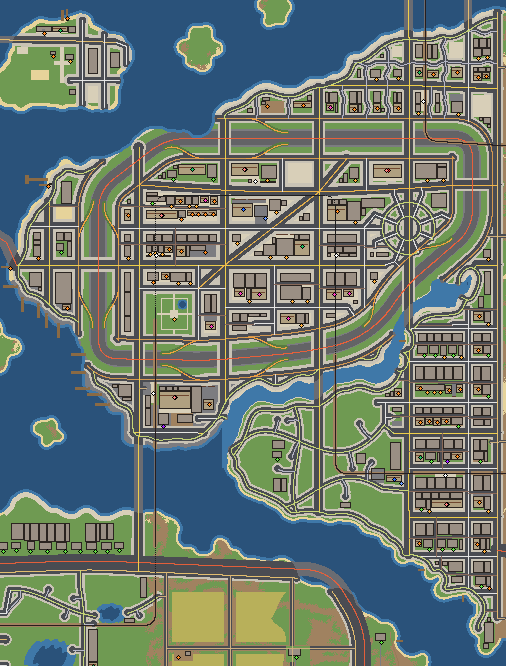
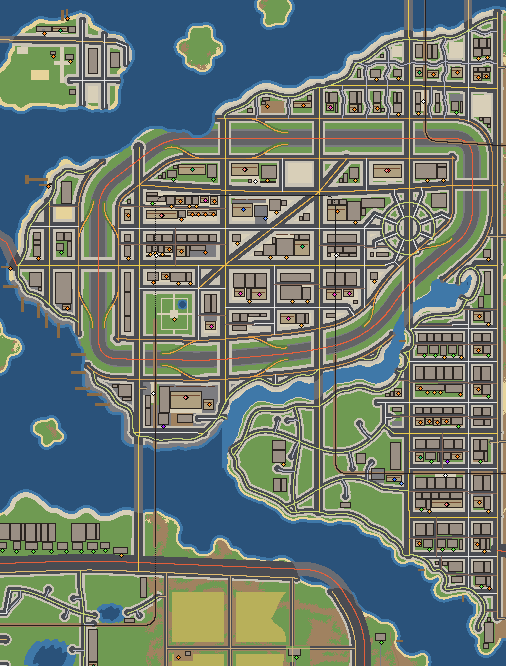
World v2 core: the Westside Clinic and Portside Logistics stay in Metro City
Specials may name a second-home district (alt) tried before the rest of
the world: the clinic goes to Midtown as in the original world, the
courier warehouse to The Yards or Southside (it had landed on Cedar Isle).

Claude-Session: https://claude.ai/code/session_015TdwbASoLBxZr1VoEZGToX

diff --git a/shared/map.js b/shared/map.js
@@ -161,12 +161,13 @@ const STYLE = {
   park: { minW: 14, minH: 14, gen: { rest2: 1 }, filler: 'park', roof: 0, roofKinds: ['tile'] },
 };
 
-// Every business the game systems rely on, placed in a specific district.
+// Every business the game systems rely on, placed in a specific district (alt: where it goes when its
+// own district has no lot big enough - Sunset Beach's strip and the harbor's quays are narrow).
 // strip prefabs host one business per storefront door.
 const SPECIALS = [
   { d: 5, prefab: 'hospital', biz: ['hospital'], names: ['St. Neon General'] },
   { d: 0, prefab: 'hospital', biz: ['hospital'], names: ['Southbank Medical'] },
-  { d: 10, prefab: 'hospital', biz: ['hospital'], names: ['Westside Clinic'] },
+  { d: 10, alt: [1], prefab: 'hospital', biz: ['hospital'], names: ['Westside Clinic'] },
   { d: 18, prefab: 'hospital', biz: ['hospital'], names: ['Old Town Infirmary'] },
   { d: 4, prefab: 'police', biz: ['police'], names: ['Metro City PD - HQ'] },
   { d: 0, prefab: 'police', biz: ['police'], names: ['Southbank Precinct'] },
@@ -182,7 +183,7 @@ const SPECIALS = [
   { d: 6, prefab: 'strip', biz: ['pawn', 'delivery', 'delivery', 'delivery'], names: ['Second Chance Pawn', 'Lucky Laundromat', 'Cut & Fade', 'Quick Mart 24/7'] },
   { d: 3, prefab: 'club', biz: ['fence'], names: ['Back-Alley Exchange'] },
   { d: 3, prefab: 'construction', biz: ['construction'], names: ['Construction Site'] },
-  { d: 8, prefab: 'warehouse', biz: ['warehouse'], names: ['Portside Logistics'] },
+  { d: 8, alt: [3, 6], prefab: 'warehouse', biz: ['warehouse'], names: ['Portside Logistics'] },
   { d: 8, prefab: 'rest1', biz: ['fishmarket'], names: ['Dockside Fish Market'] },
   { d: 8, prefab: 'conv', biz: ['marina'], names: ['Harbor Marina (boats)'] },
   { d: 2, prefab: 'school', biz: ['delivery'], names: ['Northgate High'] },
@@ -1498,13 +1499,14 @@ function rowFits(row, pf, iv) {
 function placeSpecials(m, rows, rand) {
   const order = SPECIALS.map((s, i) => ({ ...s, i })).sort((a, b) => PREFABS[b.prefab].tw - PREFABS[a.prefab].tw);
   // Two rounds: first every business looks for a lot in its own district (so a big one from elsewhere
-  // can't take the only lot a district has for its own); then the rest look elsewhere on the same part
-  // of the world, then for a smaller lot there, and only then anywhere at all (a World v2 row hosts a
-  // special on a real-sized lot: lotDims).
+  // can't take the only lot a district has for its own); then the rest look in the districts named as
+  // their second home (alt), elsewhere on the same part of the world, then for a smaller lot there, and
+  // only then anywhere at all (a World v2 row hosts a special on a real-sized lot: lotDims).
   const later = [];
   for (const sp of order) if (!placeSpecial(m, rows, rand, sp, [0, 1])) later.push(sp);
   for (const sp of later) {
-    if (placeSpecial(m, rows, rand, sp, [2]) || placeSpecial(m, rows, rand, sp, [0, 2], 0.75) || placeSpecial(m, rows, rand, sp, [3, 4]) || placeSpecial(m, rows, rand, sp, [0, 1, 2, 3, 4], 0.6)) continue;
+    if (placeSpecial(m, rows, rand, sp, [5]) || placeSpecial(m, rows, rand, sp, [5], 0.75) || placeSpecial(m, rows, rand, sp, [2]) || placeSpecial(m, rows, rand, sp, [0, 2], 0.75)
+      || placeSpecial(m, rows, rand, sp, [3, 4]) || placeSpecial(m, rows, rand, sp, [0, 1, 2, 3, 4], 0.6)) continue;
     throw new Error(`city generator: no room for ${sp.prefab} (${sp.names[0]})`);
   }
 }
@@ -1525,6 +1527,7 @@ function placeSpecial(m, rows, rand, sp, passes, shrink = 1) {
     if (cands.length) break;
     for (const row of rows) {
       if ((pass <= 1 || pass === 4) && row.d !== sp.d) continue;
+      if (pass === 5 && !(sp.alt || []).includes(row.d)) continue;
       if (pass === 2 && m.zoneAt(row.x * TILE, row.y * TILE) !== m.zoneAt(...seedOf(sp.d))) continue;
       if (pass === 1 && upright) continue;
       if (row.face !== 'S' && pass !== 1 && pass !== 4) continue;

diff --git a/docs/DEVLOG.md b/docs/DEVLOG.md
@@ -1923,7 +1923,7 @@ Everything here is client-side. Server, shared code and the network are unchange
 ### Lots (`shared/map.js`: `v2Block`, `fillRowV2`, `roofRowV2`, `backLots`, `plazaFill`, `LOT`)
 - Metro City (the central island and Southside) is filled with **real-sized buildings**: towers 16-28 tiles wide (21-37 m), shopfronts 5-10 (7-13 m), walk-ups 10-14, houses on 11-14-tile lots, hospitals 26-32, the police HQ 28-34 with its motor pool yard beside it. Each kind keeps the layout of its prefab (where the building stands in its lot, doors, parking) scaled into the lot; some lots get open ground of their own (`V2_SOLID`: the dealer's display lot, the strip mall's car park with marked bays, the school yard, the warehouse's loading yard, the police yard).
 - A block's south side on a street is the front: a row of lots facing the camera where the businesses and homes go. Behind it (or in a block that only reaches a street to the north) a row of plain buildings backs onto that street - their fronts face away from the camera (`b.back`: the art v2 renderer draws a plain back wall instead of a shop front). Whatever is left inside is built over in the dense districts, yards and warehouses in industry, car parks and gardens elsewhere.
-- Businesses look for a lot in their own district first, before any big one from elsewhere can take it; then elsewhere in the same part of the world, then on a smaller lot there, and only then anywhere.
+- Businesses look for a lot in their own district first, before any big one from elsewhere can take it; then in a district named as their second home (`alt`), elsewhere in the same part of the world, then on a smaller lot there, and only then anywhere. Sunset Beach's strip and the harbor's quays are too narrow for a hospital or a warehouse: the Westside Clinic goes to Midtown (as in the original world), Portside Logistics to The Yards or else Southside (it had ended up on Cedar Isle, and the courier jobs with it).
 
 ### No old art
 - The hand-painted downtown blocks are gone (`shared/handblocks.js`, `handPrepare` / `buildHandBlocks` / `finishHandBlocks`, `tools/hand-mask.mjs`, `tools/build_blocks.py`, `test/handblocks.test.js`). The businesses they hosted are back in their own districts (Westport General, Cedar Falls Clinic and Falls Hardware go home; Metro City PD HQ, Fresh Coat Garage, Bean Machine Coffee, FreshHub Grocery, MediMart Pharmacy and Vellori get real-sized lots). (The classic renderer's block sheets stay on disk for the fallback renderer; nothing places them.)
